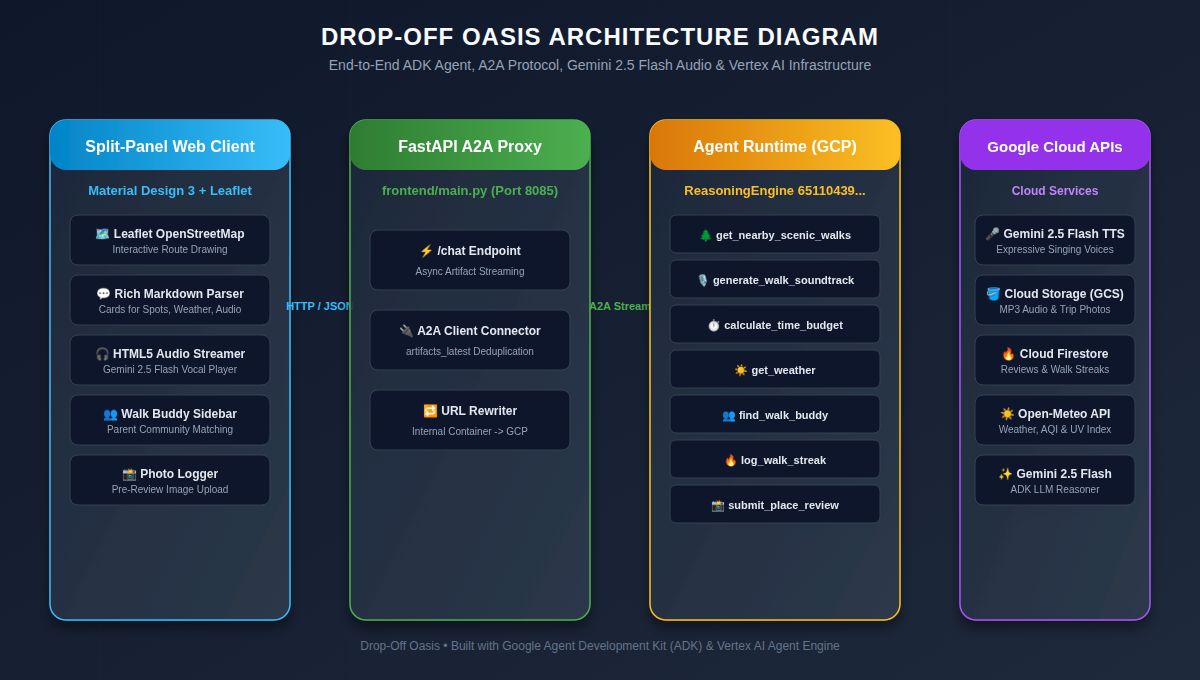
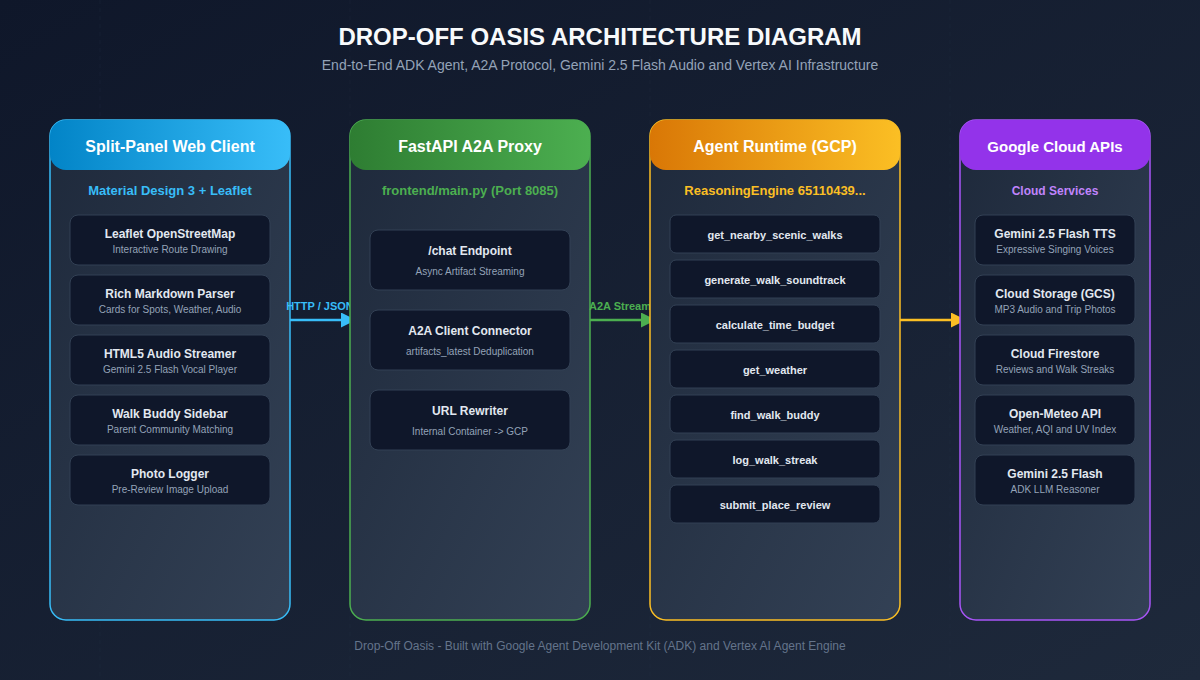
Update SVG 1.1 architecture and component diagrams, mount /docs route in FastAPI proxy, and re-render PNGs

diff --git a/frontend/main.py b/frontend/main.py
@@ -274,6 +274,7 @@ async def upload_photo(
     })
 
 
+app.mount("/docs", StaticFiles(directory="../docs"), name="docs")
 app.mount("/", StaticFiles(directory="static", html=True), name="static")
 
 
